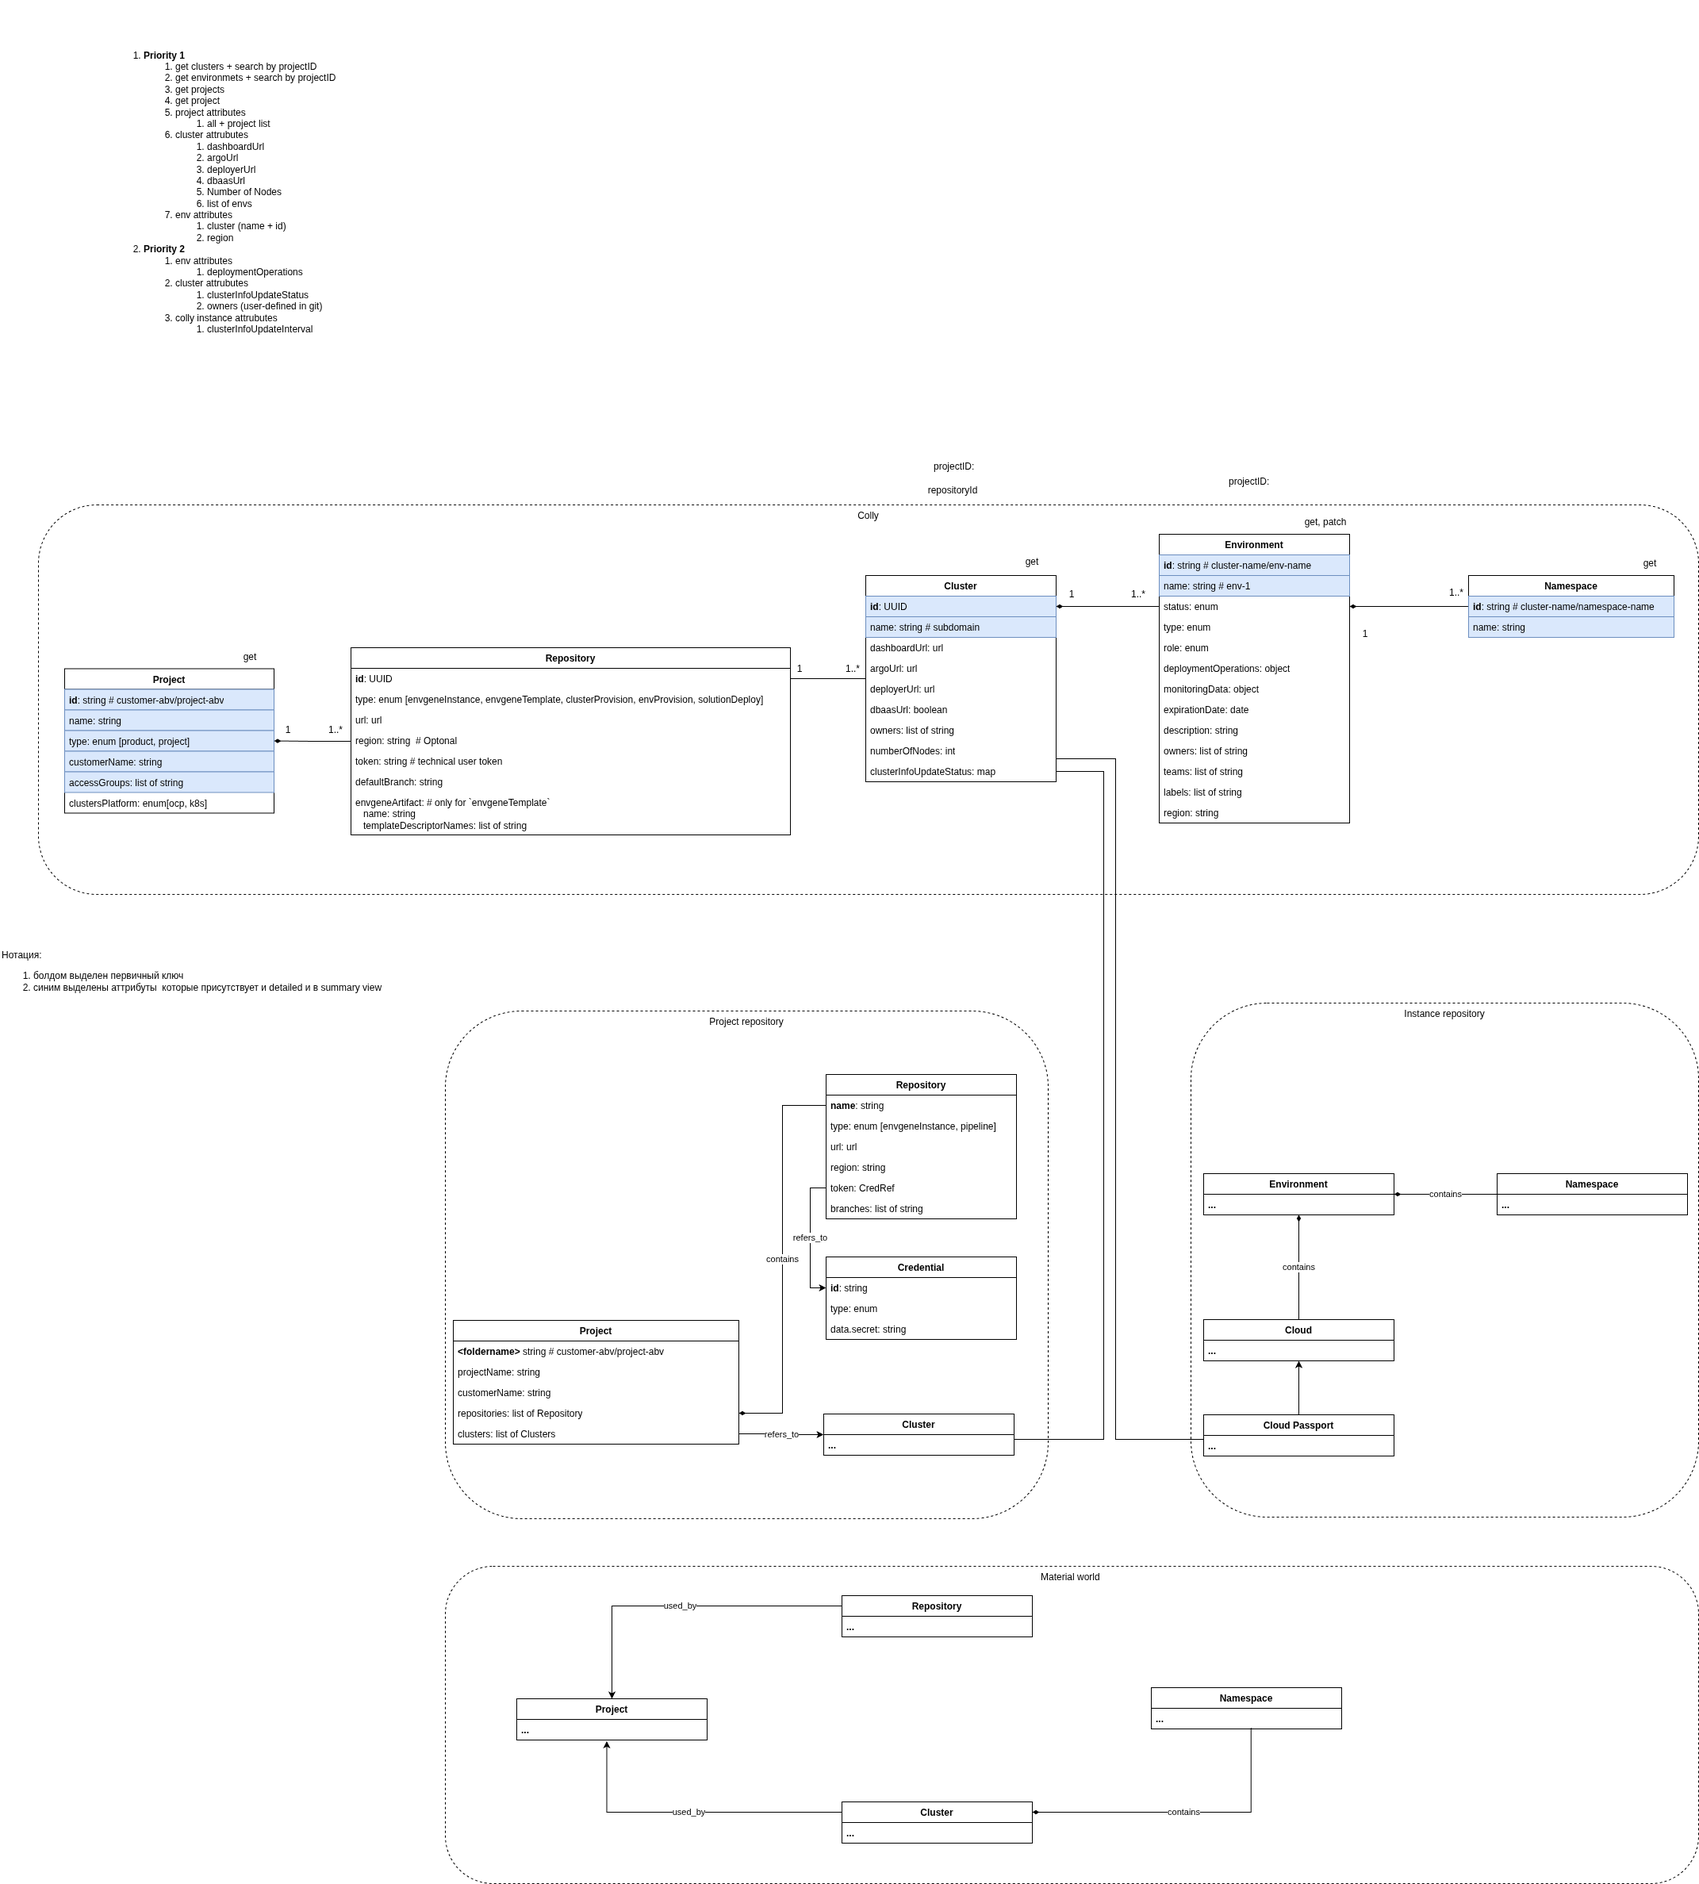
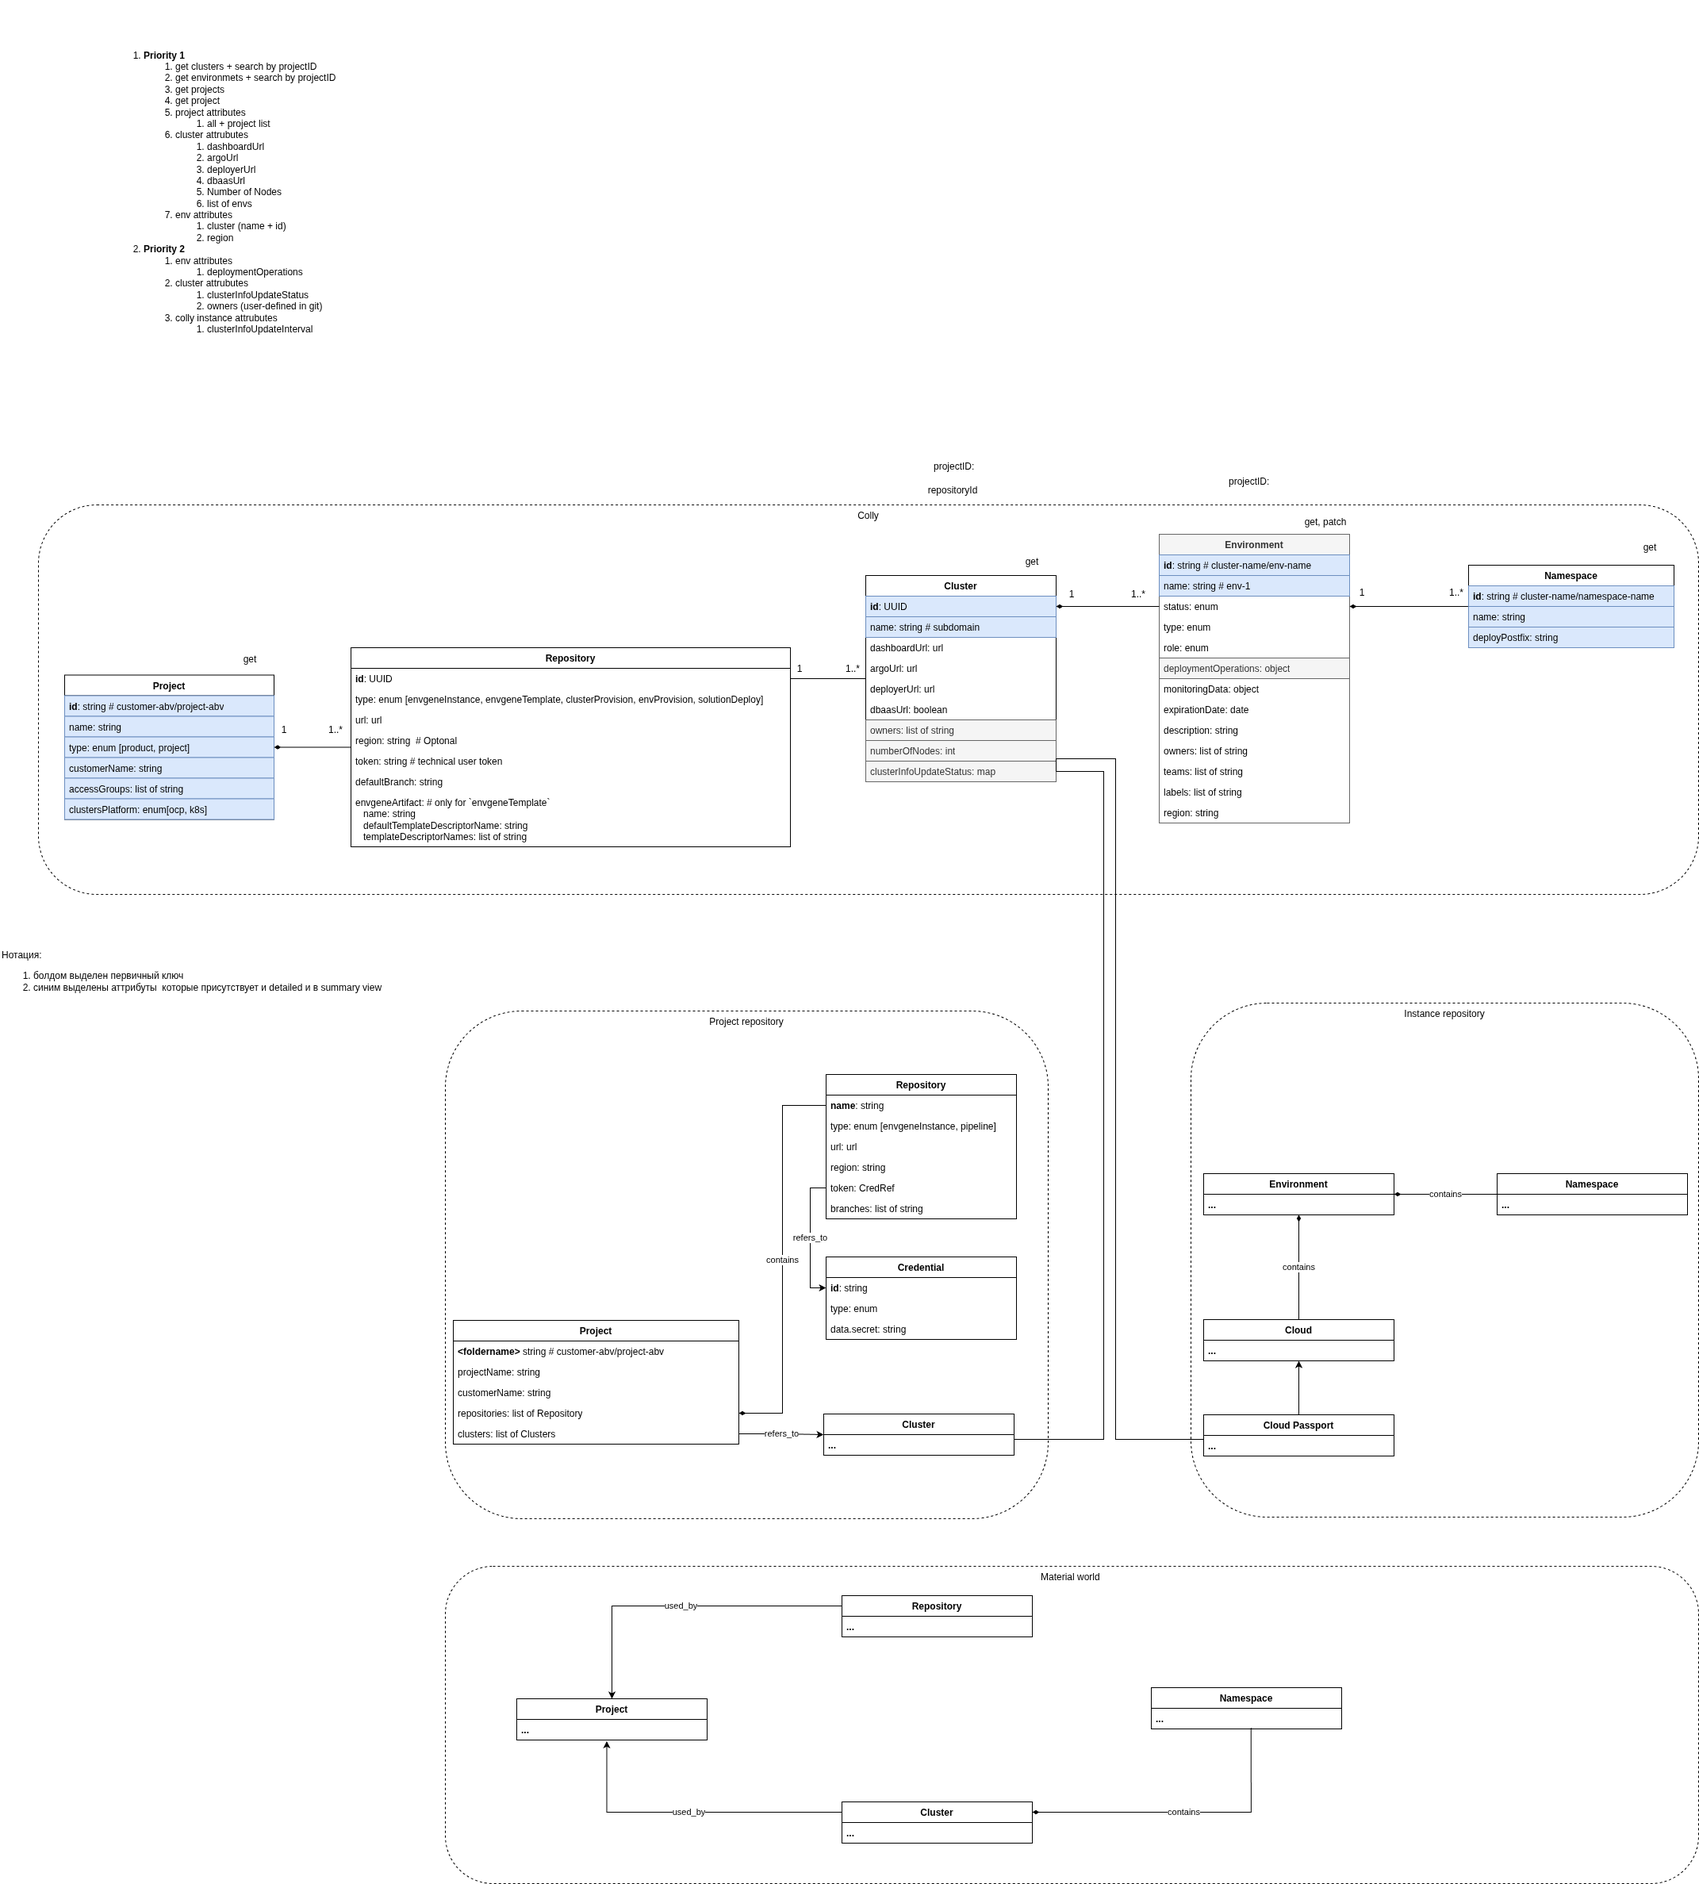
wip

Changed region(s): [[0.0308, 0.3427, 0.1849, 0.4362], [0.8627, 0.3116, 0.986, 0.3427], [0.2157, 0.4362, 0.3081, 0.4674]]

diff --git a/docs/analisys/the-customer-requirnments.md b/docs/analisys/the-customer-requirnments.md
@@ -17,19 +17,25 @@ This is not the full list of attributes for these objects, but only those that w
 
 ## Environment
 
-| Colly Attribute                         | Attribute Type                                                      | Description                                                                                                                                       |
-|-----------------------------------------|---------------------------------------------------------------------|---------------------------------------------------------------------------------------------------------------------------------------------------|
-| `name`                                  | string                                                              | Environment name, cannot be changed after creation                                                                                                |
-| `status`                                | enum [`PLANNED`, `FREE`, `IN_USE`, `RESERVED`, `DEPRECATED`]        | Current status of the Environment                                                                                                                 |
-| `role`                                  | string (the valid values are configured via a deployment parameter) | Defines the usage role of the Environment within the project. The list is configured via a deployment parameter and can be extended.              |
-| `teams`                                 | list of strings                                                     | Teams assigned to the Environment. If there are multiple teams, their names are separated by commas.                                              |
-| `owners`                                | list of strings                                                     | People responsible for the Environment. If there are multiple, their names are separated by commas.                                               |
-| `deploymentOperations`                  | list of objects                                                     | History of deployment operations per environment; each entry has `completedAt` and `deploymentItems` with SD `name`, `type`, `mode`, `status`.    |
-| `description`                           | string                                                              | Free-form Environment description                                                                                                                 |
-| `namespaces`                            | list of [Namespace](#namespace) objects                             | List of associated namespaces                                                                                                                     |
-| `cluster`                               | [Cluster](#cluster) object                                          | Associated cluster                                                                                                                                |
-| `monitoringData.lastIdpLoginDate`       | string, date-time                                                   | Time of the last successful login to the IDP associated with the Environment                                                                      |
-| `region`                                | string                                                              | Geographical region associated with the Environment. This attribute is user-defined                                                               |
+| Colly Attribute                                   | Attribute Type                                                      | Description                                                                                                                                                                                                                                        |
+|---------------------------------------------------|---------------------------------------------------------------------|----------------------------------------------------------------------------------------------------------------------------------------------------------------------------------------------------------------------------------------------------|
+| `name`                                            | string                                                              | Environment name, cannot be changed after creation                                                                                                                                                                                                 |
+| `status`                                          | enum [`PLANNED`, `FREE`, `IN_USE`, `RESERVED`, `DEPRECATED`]        | Current status of the Environment                                                                                                                                                                                                                  |
+| `role`                                            | string (the valid values are configured via a deployment parameter) | Defines the usage role of the Environment within the project. The list is configured via a deployment parameter and can be extended.                                                                                                               |
+| `teams`                                           | list of strings                                                     | Teams assigned to the Environment. If there are multiple teams, their names are separated by commas.                                                                                                                                               |
+| `owners`                                          | list of strings                                                     | People responsible for the Environment. If there are multiple, their names are separated by commas.                                                                                                                                                |
+| `deploymentOperations`                            | list of objects                                                     | Array of deployment operations for all namespaces related to the Environment. Each element represents a separate deployment operation that may involve one or more namespaces and consists of multiple SD (Solution Descriptor) deployments.       |
+| `deploymentOperations[].completedAt`              | string, date-time                                                   | Time when the deployment operation finished. This operation may involve one or more namespaces that are part of the Environment. The time reflects when all deployment items in this operation completed, regardless of their individual outcomes. |
+| `deploymentOperations[].deploymentItems`          | list of objects                                                     | List of SD (Solution Descriptor) deployments that are part of this deployment operation. Each entry represents a single SD deployment with its details.                                                                                            |
+| `deploymentOperations[].deploymentItems[].name`   | string                                                              | Name and version of the SD in format `name:version`.                                                                                                                                                                                               |
+| `deploymentOperations[].deploymentItems[].type`   | string                                                              | Type of SD (e.g., "product", "project", etc.).                                                                                                                                                                                                     |
+| `deploymentOperations[].deploymentItems[].mode`   | enum [`CLEAN_INSTALL`, `ROLLING_UPDATE`]                            | Deployment mode for the SD: CLEAN_INSTALL (remove all existing resources before deployment) or ROLLING_UPDATE (deploy on top of existing resources).                                                                                               |
+| `deploymentOperations[].deploymentItems[].status` | enum [`SUCCESS`, `FAILURE`]                                         | Result of the deployment operation for this SD.                                                                                                                                                                                                    |
+| `description`                                     | string                                                              | Free-form Environment description                                                                                                                                                                                                                  |
+| `namespaces`                                      | list of [Namespace](#namespace) objects                             | List of associated namespaces                                                                                                                                                                                                                      |
+| `cluster`                                         | [Cluster](#cluster) object                                          | Associated cluster                                                                                                                                                                                                                                 |
+| `monitoringData.lastIdpLoginDate`                 | string, date-time                                                   | Time of the last successful login to the IDP associated with the Environment                                                                                                                                                                       |
+| `region`                                          | string                                                              | Geographical region associated with the Environment. This attribute is user-defined                                                                                                                                                                |
 
 ## Namespace
 
@@ -129,7 +135,7 @@ This is not the full list of attributes for these objects, but only those that w
        1. The user wants to check that the cluster status shown in Colly is up to date and matches the real state of the cluster, so they can make decisions.
           1. Solution:
              1. Cluster attribute `clusterInfoUpdateStatus.lastSuccessAt` shows the time of the last successful sync
-             2. Colly instance attribute `clusterInfoUpdateInterval` shows the sync frequency
+             2. Colly instance (operational service) attribute `clusterInfoUpdateInterval` shows the sync frequency
        2. The user thinks the cluster status data is outdated and wants to trigger a sync manually.
           1. Solution: We do NOT allow users to trigger the sync manually.
        3. An external system integrated with Colly thinks the data is outdated and wants to trigger sync.
@@ -250,6 +256,17 @@ This is not the full list of attributes for these objects, but only those that w
         - in Git
       - Only read or also write `effectiveAccessGroups` and `accessGroups` via Colly?
 
+- [ ] Is information about synchronization with git repositories (inventory service) needed:
+
+    ```yaml
+    # colly operational service
+    projectGitInfoUpdateStatus.lastSuccessAt:
+    # cluster
+    clusterInfoUpdateStatus.lastSuccessAt:
+    # env
+    gitInfoUpdateStatus.lastSuccessAt:
+    ```
+
 ## To implement
 
 - [x] Change environment attributes
@@ -259,23 +276,31 @@ This is not the full list of attributes for these objects, but only those that w
   - [x] Add `role` attribute on Environment
   - [ ] Add deployment parameter to extend `role` valid values
   - [x] Remove default value for `role`
-  - [ ] Implement an interface (/colly/operational-service/v2/metadata) that returns the list of `role` valid values (Low priority)
+  - [ ] Implement an interface (`/colly/operational-service/v2/metadata`) that returns the list of `role` valid values (Low priority)
 - [x] `type`
   - [x] Remove the functionality for auto-generating the `type` attribute. Users should be able to set this value themselves by selecting from a list of allowed values. The list of values should be specified as a deployment parameter.
 - [ ] Include the current Colly API version in the X-API-Version HTTP response header for every API response (Low priority)
 - [x] Add `lastIdpLoginDate` attribute (via configurable monitoringData)
 - [x] Add deployment parameter for `monitoringData` extension
 - [x] Remove `ticketLinks` attribute
-- [ ] Add `deploymentOperations` ( will do via ACHKA in 26.1 )
+- [ ] Add `deploymentOperations` ( will do via ACHKA in 26.1 ) **P2**
   - [ ] Remove `cleanInstallationDate`
 - [x] Add `region` attribute
-- [ ] Add `clusterInfoUpdateInterval`, `clusterInfoUpdateStatus.lastSuccessAt` + remove `synced`
-- [ ] Add `accessGroups` to Project
+- [x] Add `clusterInfoUpdateInterval`, `clusterInfoUpdateStatus.lastSuccessAt` + remove `synced` **2.5.0**
+- [x] Ability to sync per project, not per Colly instance **2.4.0**
+- [x] Add `accessGroups` to Project **2.4.0**
 - [x] Add `clustersPlatform` to Project
-- [ ] Add `envgeneArtifact` to Project
-- [ ] Create default configuration for `monitoringData`
+- [x] Add `envgeneArtifact` to Project
+- [x] Create default configuration for `monitoringData`
 - [ ] Support cred macro
-- [ ] `numberOfNodes`
+- [x] `numberOfNodes` **2.5.0**
 - [ ] The configuration for `monitoringData` is currently shared across all environments - it needs to be made more granular
-- [ ] Add `accessGroups`, `effectiveAccessGroups` to Environment
-- [ ] Add `envgeneArtifact` to Project
+- [x] Add `accessGroups`, `effectiveAccessGroups` to Environment.
+- [ ] add handling of Redis failure - if it fails, need to re-sync with Git and clusters
+- [ ] add Redis probe - completed discovery
+- [ ] add anti-affinity rules
+- [x] add `deployPostfix` **2.4.0**
+- [ ] add BG support for `deployPostfix`
+- [ ] Add `owners` to Cluster. Agree where to store
+- [ ] Support `inventory.cloudPassport` during Cluster "discovery". Priority is unclear, not doing it yet
+- [x] support branch for instance repo **2.5.0**

diff --git a/docs/analisys/project-repository.md b/docs/analisys/project-repository.md
@@ -89,7 +89,7 @@ repositories:
     token: creds.get('<credential-id>').secret
     # Optional
     # If not set, the "default" branch is used (as in GitLab/GitHub)
-    defaultBranch: string
+    branch: string
     # Optional
     # Geographical region associated with the Environment. This attribute is user-defined
     # Used in cases where specific `pipeline` repositories need to be used for certain environments
